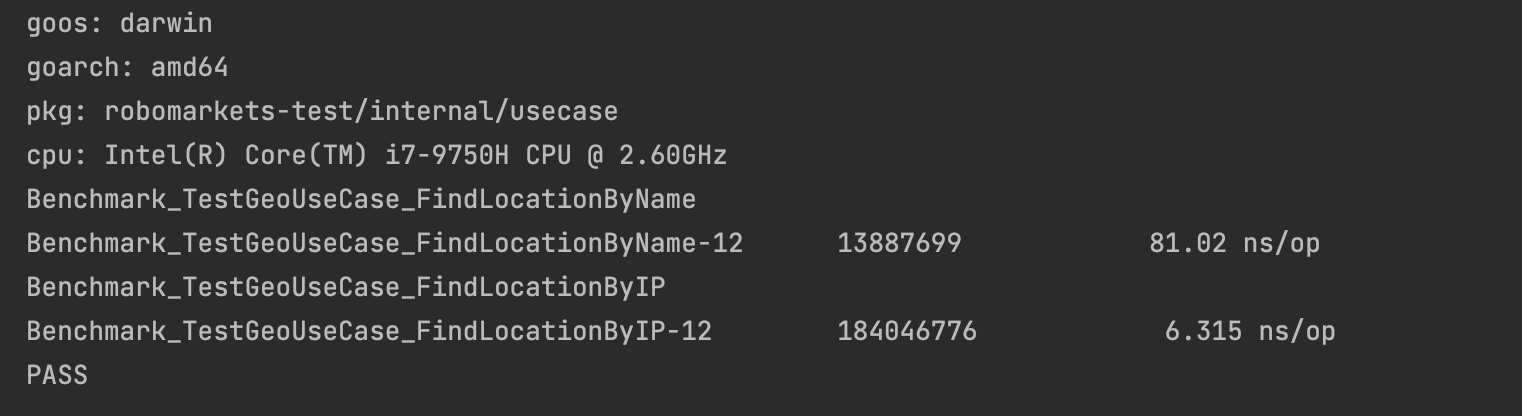
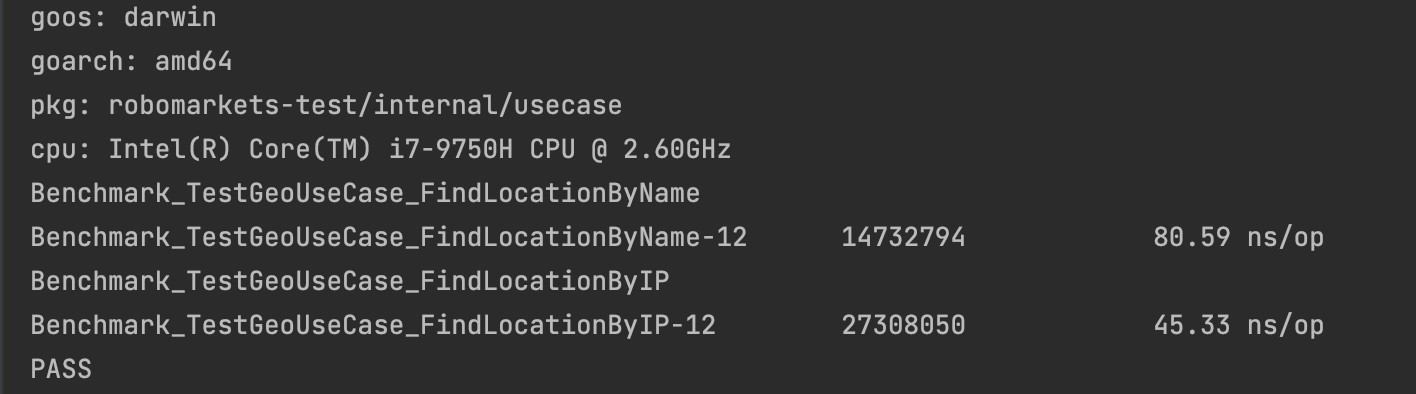
fix read ip

diff --git a/internal/repository/load_geobase.go b/internal/repository/load_geobase.go
@@ -24,7 +24,7 @@ func ParseHeader(file io.Reader) (entity.Header, error) {
 	header.Version = ParseInt32(headerBts[:4])
 	headerBts = headerBts[4:]
 
-	header.Name = string(bytes.Trim(headerBts[:32], "\x00"))
+	header.Name = ParseString(headerBts[:32])
 	headerBts = headerBts[32:]
 
 	header.Timestamp = ParseUint64(headerBts[:8])
@@ -107,19 +107,19 @@ func ParseLocations(file io.Reader, count int) ([]entity.Location, error) {
 		}
 		addr := entity.Location{}
 
-		addr.Country = string(bytes.Trim(bts[:8], "\x00"))
+		addr.Country = ParseString(bts[:8])
 		bts = bts[8:]
 
-		addr.Region = string(bytes.Trim(bts[:12], "\x00"))
+		addr.Region = ParseString(bts[:12])
 		bts = bts[12:]
 
-		addr.Postal = string(bytes.Trim(bts[:12], "\x00"))
+		addr.Postal = ParseString(bts[:12])
 		bts = bts[12:]
 
-		addr.City = string(bytes.Trim(bts[:24], "\x00"))
+		addr.City = ParseString(bts[:24])
 		bts = bts[24:]
 
-		addr.Organization = string(bytes.Trim(bts[:32], "\x00"))
+		addr.Organization = ParseString(bts[:32])
 		bts = bts[32:]
 
 		addr.Latitude = ParseFloat32(bts[:4])
@@ -148,4 +148,8 @@ func ParseUint64(bts []byte) uint64 {
 
 func ParseFloat32(bts []byte) float32 {
 	return math.Float32frombits(binary.LittleEndian.Uint32(bts))
+}
+
+func ParseString(bts []byte) string {
+	return string(bytes.Trim(bts, "\x00"))
 }

diff --git a/internal/usecase/usecase.go b/internal/usecase/usecase.go
@@ -1,6 +1,9 @@
 package usecase
 
 import (
+	"bytes"
+	"encoding/binary"
+	"net"
 	"robomarkets-test/internal/entity"
 	"robomarkets-test/internal/repository"
 	"strings"
@@ -21,7 +24,7 @@ func NewGeoUsecase(repo repository.Repository) GeoUseCase {
 	}
 }
 
-// FindLocationByName - binary searching location
+// FindLocationByName - binary searching location by city name
 func (g GeoUseCase) FindLocationByName(name string) *entity.Location {
 	var left, right = 0, int(g.repository.GetRecordsNumber())
 	for left <= right {
@@ -47,6 +50,7 @@ func (g GeoUseCase) FindLocationByName(name string) *entity.Location {
 	return nil
 }
 
+// FindLocationByIP - binary searching location by ip
 func (g GeoUseCase) FindLocationByIP(ip uint32) *entity.Location {
 	var left, right = 0, int(g.repository.GetRecordsNumber())
 	var foundRange *entity.Range
@@ -74,4 +78,10 @@ func (g GeoUseCase) FindLocationByIP(ip uint32) *entity.Location {
 		return g.repository.GetLocationByLocationIndex(entity.City(foundRange.LocationIndex))
 	}
 	return nil
+}
+
+func Ip2Uint32(ip string) uint32 {
+	var long uint32
+	binary.Read(bytes.NewBuffer(net.ParseIP(ip).To4()), binary.BigEndian, &long)
+	return long
 }

diff --git a/internal/api/http.go b/internal/api/http.go
@@ -29,14 +29,11 @@ func StartServer(cfg *config.Config, uc usecase.Usecase) {
 	// Start HTTP server.
 	if len(cfg.Port) > 0 {
 		log.Printf("Starting HTTP server on %q", cfg.Port)
-		go func() {
-			if err := fasthttp.ListenAndServe(cfg.Port, requestHandler); err != nil {
-				log.Fatalf("error in ListenAndServe: %s", err)
-			}
-		}()
+		// locks here
+		if err := fasthttp.ListenAndServe(cfg.Port, requestHandler); err != nil {
+			log.Fatalf("error in ListenAndServe: %s", err)
+		}
 	}
-
-	select {}
 }
 
 func CityLocationHandler(ctx *fasthttp.RequestCtx, uc usecase.Usecase) {
@@ -52,7 +49,7 @@ func CityLocationHandler(ctx *fasthttp.RequestCtx, uc usecase.Usecase) {
 
 func IpLocationHandler(ctx *fasthttp.RequestCtx, uc usecase.Usecase) {
 	ipBts := ctx.QueryArgs().Peek("ip")
-	location := uc.FindLocationByIP(repository.ParseUint32(ipBts))
+	location := uc.FindLocationByIP(usecase.Ip2Uint32(repository.ParseString(ipBts)))
 	bts, err := json.Marshal(location)
 	if err != nil {
 		fmt.Println(err)

diff --git a/internal/usecase/usecase_test.go b/internal/usecase/usecase_test.go
@@ -13,7 +13,7 @@ func Benchmark_TestGeoUseCase_FindLocationByName(b *testing.B) {
 	uc := NewGeoUsecase(repo)
 	loc := uc.FindLocationByName("cit_Osumi")
 	if loc == nil || loc.City != "cit_Osumi" {
-		panic("not valid answer")
+		b.Fatal("not valid answer")
 	}
 	b.ResetTimer()
 	for i := 0; i < b.N; i++ {
@@ -24,11 +24,12 @@ func Benchmark_TestGeoUseCase_FindLocationByName(b *testing.B) {
 func Benchmark_TestGeoUseCase_FindLocationByIP(b *testing.B) {
 	repo, err := repository.NewGeoRepository("../../docs/geobase.dat")
 	if err != nil {
-		panic(err)
+		b.Fatal(err)
 	}
 	uc := NewGeoUsecase(repo)
+	ip := Ip2Uint32("123.234.123.234")
 	b.ResetTimer()
 	for i := 0; i < b.N; i++ {
-		uc.FindLocationByIP(repository.ParseUint32([]byte("123.234.123.234")))
+		uc.FindLocationByIP(ip)
 	}
 }

diff --git a/internal/entity/ranges.go b/internal/entity/ranges.go
@@ -7,7 +7,7 @@ type Range struct {
 }
 
 func (r *Range) IsInside(ip uint32) bool {
-	if ip >= r.IpFrom || ip <= r.IpTo {
+	if ip >= r.IpFrom && ip <= r.IpTo {
 		return true
 	}
 	return false
